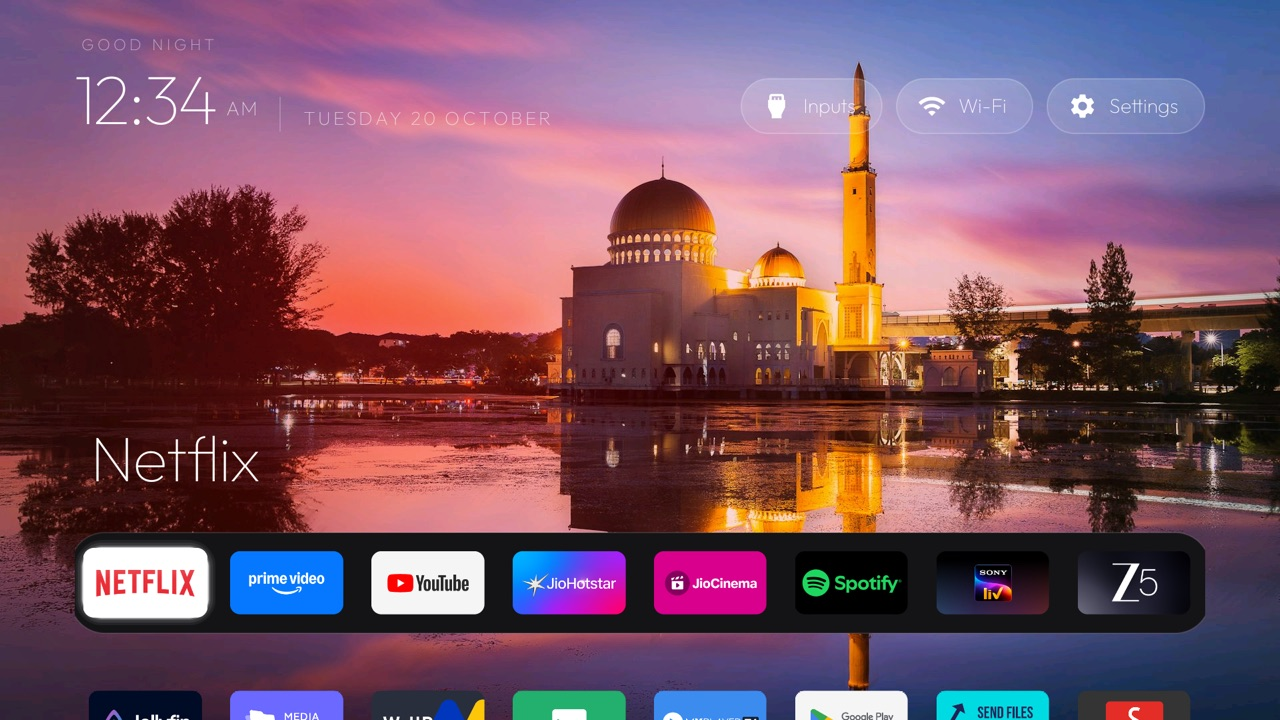
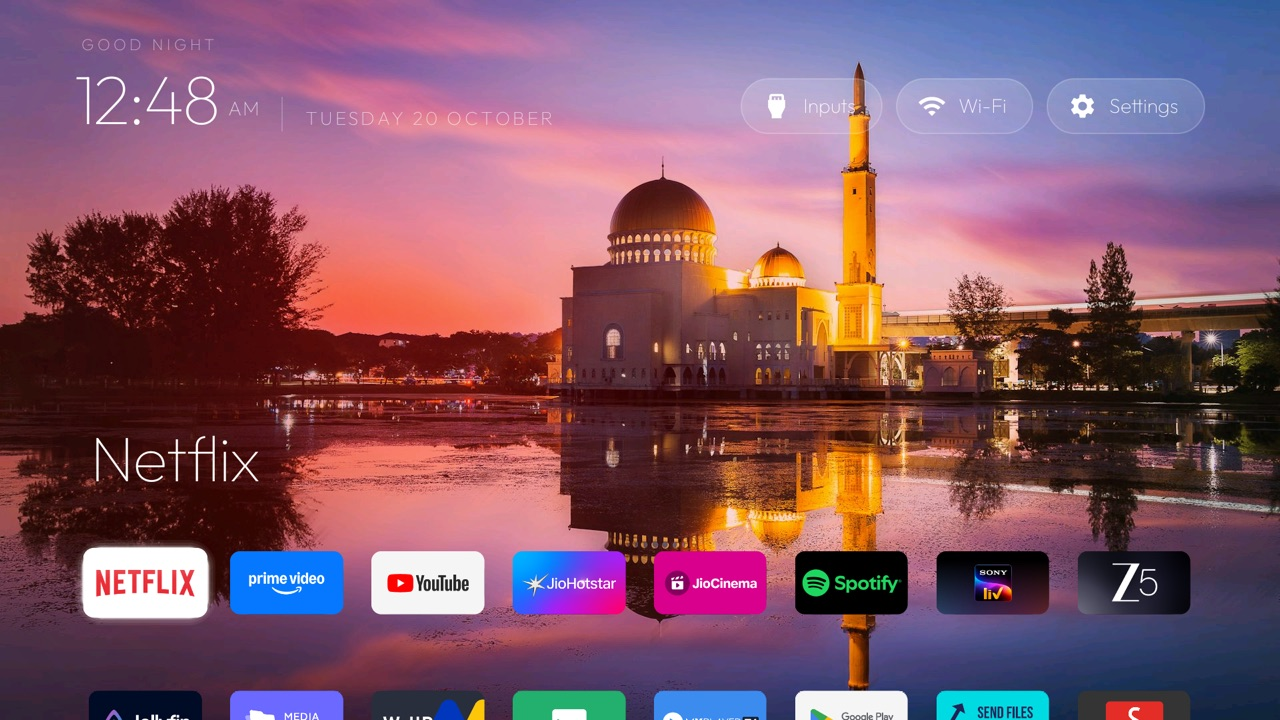
launcher: dock_band setting, off on this TV
DockDecoration always drew a dark rounded band behind the dock row. Over a
photo wallpaper it reads as a black bar that the grid rows below do not
have. dock_band (config.xml or a theme's config.json) turns the band off;
the gap below the dock stays, so the layout does not move. Off here, and
the Home and tile screenshots are retaken without it.

diff --git a/launcher/app/src/main/java/com/gathin/tvhome/Config.java b/launcher/app/src/main/java/com/gathin/tvhome/Config.java
@@ -46,6 +46,8 @@ final class Config {
     final boolean moduleCards;
     /** Calmer motion for weak GPUs (config.xml, reduced_motion): stiff spring, short fades, no replay. */
     final boolean reducedMotion;
+    /** Draw the darker rounded band behind the dock row (config.xml, dock_band). */
+    final boolean dockBand;
     final String vpnApp;
     final boolean showHomeSettingsShortcut;
     /** Background colour behind everything, #RRGGBB; black unless a theme says otherwise. */
@@ -62,7 +64,7 @@ final class Config {
     private Config(List<String> dockApps, List<String> hiddenApps, String liveTvPackage, String liveTvAction,
                    String sourcePanelService, String sourcePanelAction, String inputAction,
                    int columns, int rowsBelowDock,
-                   boolean shamsiDate, boolean moduleCards, boolean reducedMotion, String vpnApp,
+                   boolean shamsiDate, boolean moduleCards, boolean reducedMotion, boolean dockBand, String vpnApp,
                    boolean showHomeSettingsShortcut, int backgroundColor,
                    File wallpaper, File wallpaperFolder, int wallpaperRotateMinutes, boolean overlayApplied) {
         this.dockApps = Collections.unmodifiableList(dockApps);
@@ -77,6 +79,7 @@ final class Config {
         this.shamsiDate = shamsiDate;
         this.moduleCards = moduleCards;
         this.reducedMotion = reducedMotion;
+        this.dockBand = dockBand;
         this.vpnApp = vpnApp;
         this.showHomeSettingsShortcut = showHomeSettingsShortcut;
         this.backgroundColor = backgroundColor;
@@ -105,6 +108,7 @@ final class Config {
         boolean shamsi = res.getBoolean(R.bool.shamsi_date);
         boolean moduleCards = res.getBoolean(R.bool.module_cards);
         boolean reducedMotion = res.getBoolean(R.bool.reduced_motion);
+        boolean dockBand = res.getBoolean(R.bool.dock_band);
         String vpn = res.getString(R.string.vpn_app).trim();
         boolean homeSettings = res.getBoolean(R.bool.show_home_settings_shortcut);
         String wallpaperFolder = res.getString(R.string.wallpaper_folder).trim();
@@ -129,6 +133,7 @@ final class Config {
             shamsi = bool(json, "shamsi_date", shamsi);
             moduleCards = bool(json, "module_cards", moduleCards);
             reducedMotion = bool(json, "reduced_motion", reducedMotion);
+            dockBand = bool(json, "dock_band", dockBand);
             vpn = string(json, "vpn_app", vpn);
             homeSettings = bool(json, "show_home_settings_shortcut", homeSettings);
             background = color(json, "background_color", background);
@@ -141,7 +146,7 @@ final class Config {
         if (json != null && json.has("wallpaper") && !bool(json, "wallpaper", true)) wallpaper = null;
 
         return new Config(dock, hidden, liveTv, liveTvAction, panelService, panelAction, inputAction,
-                Math.max(1, columns), Math.max(0, rowsBelow), shamsi, moduleCards, reducedMotion,
+                Math.max(1, columns), Math.max(0, rowsBelow), shamsi, moduleCards, reducedMotion, dockBand,
                 vpn, homeSettings, background, wallpaper,
                 wallpaperFolder.isEmpty() ? null : new File(wallpaperFolder), Math.max(0, rotateMinutes), applied);
     }

diff --git a/launcher/app/src/main/java/com/gathin/tvhome/DockDecoration.java b/launcher/app/src/main/java/com/gathin/tvhome/DockDecoration.java
@@ -9,18 +9,23 @@ import android.view.View;
 import androidx.annotation.NonNull;
 import androidx.recyclerview.widget.RecyclerView;
 
-/** Draws the tvOS style lighter band behind the first (dock) row and adds a gap below it. */
+/**
+ * Adds a gap below the first (dock) row and, unless config.xml dock_band is false, draws the tvOS style
+ * band behind it. Without the band the dock tiles sit straight on the wallpaper, like the grid rows.
+ */
 public class DockDecoration extends RecyclerView.ItemDecoration {
 
     private final int dockSize;
     private final float density;
+    private final boolean drawBand;
     private final Paint band = new Paint(Paint.ANTI_ALIAS_FLAG);
     private final Paint edge = new Paint(Paint.ANTI_ALIAS_FLAG);
     private final RectF rect = new RectF();
 
-    DockDecoration(int dockSize, float density) {
+    DockDecoration(int dockSize, float density, boolean drawBand) {
         this.dockSize = dockSize;
         this.density = density;
+        this.drawBand = drawBand;
         band.setColor(0xFF141416);
         edge.setStyle(Paint.Style.STROKE);
         edge.setStrokeWidth(density);
@@ -39,6 +44,7 @@ public class DockDecoration extends RecyclerView.ItemDecoration {
 
     @Override
     public void onDraw(@NonNull Canvas c, @NonNull RecyclerView parent, @NonNull RecyclerView.State state) {
+        if (!drawBand) return;
         boolean any = false;
         for (int i = 0; i < parent.getChildCount(); i++) {
             View child = parent.getChildAt(i);

diff --git a/launcher/app/src/main/java/com/gathin/tvhome/MainActivity.java b/launcher/app/src/main/java/com/gathin/tvhome/MainActivity.java
@@ -233,7 +233,7 @@ public class MainActivity extends Activity implements AppAdapter.TileListener {
         grid.setLayoutManager(new GridLayoutManager(this, COLUMNS));
         grid.setHasFixedSize(true);
         grid.setItemAnimator(null);
-        grid.addItemDecoration(new DockDecoration(COLUMNS, density));
+        grid.addItemDecoration(new DockDecoration(COLUMNS, density, cfg.dockBand));
         int enterAnim = reducedMotion ? R.anim.tile_enter_reduced : R.anim.tile_enter;
         float enterDelay = reducedMotion ? 0f : 0.06f;
         grid.setLayoutAnimation(new LayoutAnimationController(

diff --git a/docs/axso2-fork/README.md b/docs/axso2-fork/README.md
@@ -19,7 +19,8 @@ This branch is the reference launcher (v2.3) with two changes for one TV, a Xiao
 2. **Wallpaper tile and pop-up.** A Wallpaper tile at the end of the app grid opens a pop-up with the
    thumbnails. OK on one makes it the wallpaper and restarts the 30 minutes. Back closes it.
 3. **Personal config.** An eight-app dock (Netflix, Prime Video, YouTube, JioHotstar, JioCinema, Spotify,
-   SonyLIV, Zee5) in one row with `columns` 8, and `com.android.tv` as the Live TV app.
+   SonyLIV, Zee5) in one row with `columns` 8, `com.android.tv` as the Live TV app, and no dark band
+   behind the dock (`dock_band` false), so the dock sits on the wallpaper like the grid rows.
 
 Settings in `launcher/app/src/main/res/values/config.xml`, also accepted in a theme's `config.json`:
 
@@ -27,6 +28,7 @@ Settings in `launcher/app/src/main/res/values/config.xml`, also accepted in a th
 |---|---|---|
 | `wallpaper_folder` | `/sdcard/Wallpapers` | Folder of pictures; empty turns the feature and the tile off |
 | `wallpaper_rotate_minutes` | `30` | Minutes between changes; `0` never rotates (a new picture still shows) |
+| `dock_band` | `false` | The darker rounded band behind the dock row; the reference launcher always draws it |
 
 ## How it works
 

diff --git a/themes/README.md b/themes/README.md
@@ -37,6 +37,7 @@ is ignored, and a file that doesn't parse is ignored as a whole, so a theme can 
 | `show_home_settings_shortcut` | bool | The "Default home" tile, where the TV has a home picker |
 | `background_color` | `#RRGGBB` | Colour behind everything; black by default |
 | `wallpaper` | bool | Show `wallpaper.jpg` from the theme folder (`true`), or ignore it (`false`) |
+| `dock_band` | bool | The darker rounded band behind the dock row (`true`); `false` puts the dock tiles straight on the wallpaper |
 | `wallpaper_folder` | string | Folder of pictures that rotate behind the launcher, e.g. `/sdcard/Wallpapers`; empty turns it off. While it has pictures it replaces `wallpaper.jpg`. A Wallpaper tile in the grid opens a pop-up to pick one |
 | `wallpaper_rotate_minutes` | 0 to 1440 | Minutes between changes while Home is open; `0` never rotates. A newly added picture always shows at once |
 
